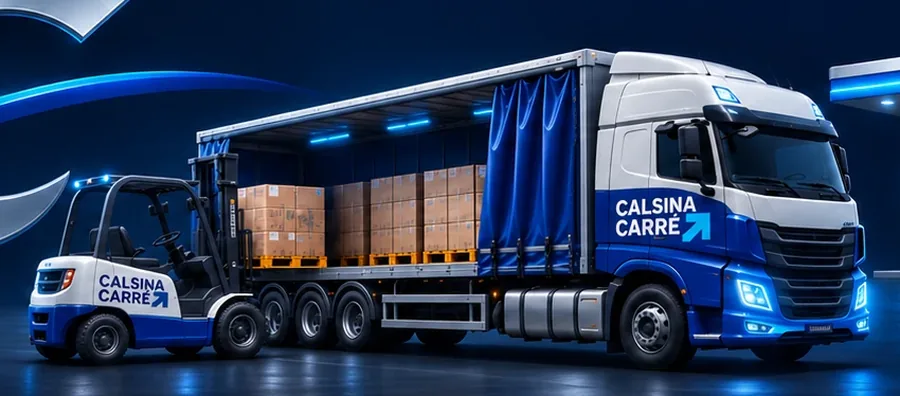
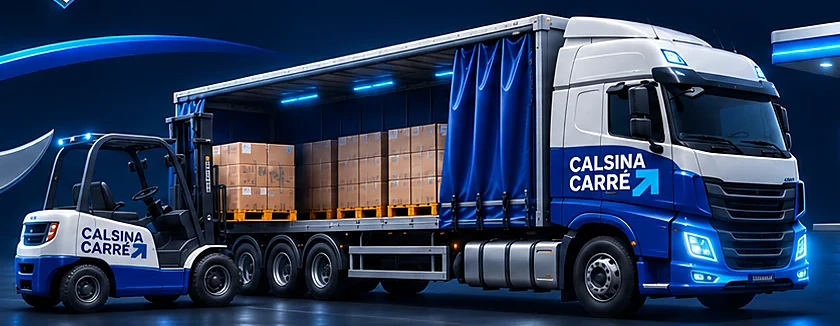
v29: imagen de la portada en el móvil mejor (camión y carretilla enteros, más nítidos), lo pidió Lorena
Claude-Session: https://claude.ai/code/session_011SdsLKzTmFSpwPz2orkjvZ

diff --git a/styles.css b/styles.css
@@ -182,7 +182,7 @@ main { outline: none; }
    azul de la web (#0B1E3C) y los bordes se difuminan con máscaras para que se funda con el degradado y los círculos del .hero.
    En el móvil, img/portada-movil.webp (carretilla y camión, sin las CC: lo pidió Lorena); en pantallas anchas, img/portada.webp entera. */
 .hero-arte {
-  width: calc(100% + 32px); max-width: 640px; aspect-ratio: 900 / 396; margin: 0 -16px;
+  width: calc(100% + 32px); max-width: 640px; aspect-ratio: 840 / 326; margin: 0 -16px;
   justify-self: center;
   background: url(img/portada-movil.webp) center / cover no-repeat;
   -webkit-mask-image: linear-gradient(90deg, transparent, #000 10%, #000 90%, transparent), linear-gradient(180deg, transparent, #000 12%, #000 78%, transparent);
@@ -711,7 +711,11 @@ main:focus, main:focus-visible { outline: none; }
 .urgente-movil:empty { display: none; }
 @media (max-width: 759px) {
   .hero { padding: 4px 16px 20px; }
-  .hero-arte { aspect-ratio: 900 / 300; max-width: 520px; }
+  /* v29 (lo pidió Lorena, 13/11/2026): la imagen del móvil tiene la misma proporción que su caja (840×326), así no se corta
+     el techo del camión ni las ruedas; los bordes se difuminan menos para que la carretilla no quede apagada */
+  .hero-arte { aspect-ratio: 840 / 326; max-width: 560px;
+    -webkit-mask-image: linear-gradient(90deg, transparent, #000 5%, #000 95%, transparent), linear-gradient(180deg, transparent, #000 6%, #000 90%, transparent);
+    mask-image: linear-gradient(90deg, transparent, #000 5%, #000 95%, transparent), linear-gradient(180deg, transparent, #000 6%, #000 90%, transparent); }
   .hero-eyebrow { font-size: .68rem; padding: 4px 10px; margin-bottom: 8px; }
   .hero-titulo { font-size: 1.45rem; }
   .hero-sub { margin-top: 8px; font-size: .92rem; }

diff --git a/admin.html b/admin.html
@@ -13,9 +13,9 @@
 <link rel="icon" href="img/favicon-32.png" sizes="32x32" type="image/png">
 <link rel="icon" href="img/favicon-64.png" sizes="64x64" type="image/png">
 <link rel="apple-touch-icon" href="img/apple-touch-icon.png">
-<link rel="stylesheet" href="fuentes.css?v=28">
-<link rel="stylesheet" href="styles.css?v=28">
-<link rel="stylesheet" href="admin.css?v=28">
+<link rel="stylesheet" href="fuentes.css?v=29">
+<link rel="stylesheet" href="styles.css?v=29">
+<link rel="stylesheet" href="admin.css?v=29">
 </head>
 <body class="panel">
 <header class="cabecera cab-panel">
@@ -157,8 +157,8 @@
 </section>
 
 <script src="lib/supabase.js"></script>
-<script src="comun.js?v=28"></script>
-<script src="render.js?v=28"></script>
-<script src="admin.js?v=28"></script>
+<script src="comun.js?v=29"></script>
+<script src="render.js?v=29"></script>
+<script src="admin.js?v=29"></script>
 </body>
 </html>

diff --git a/index.html b/index.html
@@ -25,8 +25,8 @@
 <meta property="og:type" content="website">
 <meta name="twitter:card" content="summary_large_image">
 <link rel="preconnect" href="https://ytxpubqyhnohhugpukdm.supabase.co" crossorigin>
-<link rel="stylesheet" href="fuentes.css?v=28">
-<link rel="stylesheet" href="styles.css?v=28">
+<link rel="stylesheet" href="fuentes.css?v=29">
+<link rel="stylesheet" href="styles.css?v=29">
 </head>
 <body class="web">
 <a class="saltar" href="#contenido">Ir al contenido</a>
@@ -396,9 +396,9 @@
 </footer>
 
 <script src="lib/supabase.js"></script>
-<script src="comun.js?v=28"></script>
-<script src="render.js?v=28"></script>
-<script src="app.js?v=28"></script>
-<script src="visor.js?v=28"></script>
+<script src="comun.js?v=29"></script>
+<script src="render.js?v=29"></script>
+<script src="app.js?v=29"></script>
+<script src="visor.js?v=29"></script>
 </body>
 </html>

diff --git a/cartel.html b/cartel.html
@@ -8,7 +8,7 @@
 <meta name="robots" content="noindex">
 <title>Cartel para el tablón · Comité Calsina Carré</title>
 <link rel="icon" href="img/favicon-32.png" sizes="32x32" type="image/png">
-<link rel="stylesheet" href="fuentes.css?v=28">
+<link rel="stylesheet" href="fuentes.css?v=29">
 <style>
   :root { --noche: #0B1E3C; --azul: #0E5FAE; --cian: #00C6FF; --hielo: #E6EEF7; --tinta: #0B1E3C; --suave: #4d5b6c; }
   * { box-sizing: border-box; }
@@ -88,6 +88,6 @@
   </div>
 </div>
 <script src="lib/qr.js"></script>
-<script src="cartel.js?v=28"></script>
+<script src="cartel.js?v=29"></script>
 </body>
 </html>

diff --git a/comun.js b/comun.js
@@ -6,7 +6,7 @@
 window.SUPABASE_URL = "https://ytxpubqyhnohhugpukdm.supabase.co";
 window.SUPABASE_KEY = "sb_publishable_tmkeed90aj4Fv00UoTTy7Q_qBPUAaCj";
 window.sb = supabase.createClient(window.SUPABASE_URL, window.SUPABASE_KEY);
-window.VERSION_WEB = "28"; // cambiar junto con ?v= en los HTML y VERSION en sw.js
+window.VERSION_WEB = "29"; // cambiar junto con ?v= en los HTML y VERSION en sw.js
 // Dirección de la web: sale de donde esté publicada (no hay que tocarla si cambia el dominio)
 window.WEB_URL = new URL("./", location.href).href;
 

diff --git a/guia.html b/guia.html
@@ -9,8 +9,8 @@
 <title>Guía del panel · Comité Calsina Carré</title>
 <meta name="theme-color" content="#0B1E3C">
 <link rel="icon" href="img/favicon-32.png" sizes="32x32" type="image/png">
-<link rel="stylesheet" href="fuentes.css?v=28">
-<link rel="stylesheet" href="styles.css?v=28">
+<link rel="stylesheet" href="fuentes.css?v=29">
+<link rel="stylesheet" href="styles.css?v=29">
 <style>
   body { padding-bottom: 40px; }
   .guia { max-width: 820px; margin: 0 auto; padding: 8px 16px 40px; }

diff --git a/sw.js b/sw.js
@@ -1,6 +1,6 @@
 // Permite instalar la web como app y abrirla sin conexión.
 // Cambiar VERSION junto con ?v= en los HTML y VERSION_WEB en comun.js.
-const VERSION = "28";
+const VERSION = "29";
 const CACHE = "comite-v" + VERSION;
 const ARCHIVOS = [
   "./", "index.html", "admin.html", "guia.html", "404.html",

diff --git a/README.md b/README.md
@@ -99,6 +99,7 @@ NODE_PATH=$(npm root -g) node pruebas/sw.cjs
 - **v17**: calendario con botón «Mes / Año entero» (12 meses en pequeño; al tocar un mes se abre). Festivos laborales oficiales de Cataluña de 2026 y 2027 sacados del BOE (BOE-A-2025-21667 y BOE-A-2026-21254); los de España con la bandera española. Reuniones con la empresa en azul y las del comité en verde (petición n.º 6 del padre). También: panel del padre más fácil (lo pidió Lorena): sus peticiones en dos bloques, «Lo tuyo» (Te toca a ti / Esperando) arriba y «Confirmado por Lorena» debajo; preguntas de Claude con botones y «Otra cosa»; «Que lo siga Lorena», «Quitar de mi lista» y «No me gusta, quitarlo»; menos texto, buscador, negritas y fotos grandes en el chat. En la portada, el nombre «Comité de empresa · (nombre de la empresa)» se ve mejor.
 - **v23**: el nombre del camión de la portada se quita otra vez porque se veía borroso (lo pidió Lorena el 9/11/2026; «Calsina Carré» sigue en la cabecera, el título y los textos); «Avisar a Lorena» del panel dice «solo emergencias» y pregunta antes de avisar (fallo en la web o cambio que haga falta ya). Revisión a fondo (tanda 3, 10/11/2026): **web** — carga primero la copia guardada y avisa si la red va lenta (12 s) o no hay conexión, «Actualizado el…» en avisos y actas, «Escribir al comité (email)» en el pie, botones de 44 px, la portada ya no salta al cargar, pestañas en dos filas en el PC, enlaces viejos avisan de que ya no existe, textos legales y del buzón nuevos, el service worker no se queda colgado, los avisos al móvil ya no piden activarse cada vez (petición n.º 10); **panel** — no publica dos veces con un doble toque, nunca dice «hecho» sin guardar (avisa si la sesión ha caducado y conserva lo escrito), pregunta antes de salir sin guardar, borrador guardado solo, «Deshacer», plantillas de aviso, convocatoria y acta, «Ver cómo quedará en la web» en el móvil, fotos sin GPS, «Borrar para siempre» en la Papelera, guía al día.
 - **v24**: mejoras de aspecto que eligió Lorena el 10/11/2026 (auditoría visual): en el móvil, el bloque azul de la portada es más bajo y lo urgente (aviso urgente o «Destacado hoy», con su señal y las rayas) sale justo debajo de «Buzón anónimo», antes de los accesos (en el PC sigue a la derecha); en el editor de avisos, «Urgente» y «Destacar en la portada el día» van juntos en el recuadro «¿Cómo de importante es?»; en las listas del panel, título como en la web, explicación plegada con «Cómo funciona» y señal pequeña en cada aviso; esquinas en 3 medidas, tarjetas de reunión con el texto a todo el ancho y etiquetas más suaves en modo oscuro. El Inicio del panel no cambia.
+- **v29**: la imagen de la portada en el móvil se ve mejor (lo pidió Lorena): el camión y la carretilla salen enteros, con el techo y las ruedas, más nítidos y con los bordes menos apagados.
 - **v28**: imagen de portada nueva que mandó Lorena (con el logo CC, y el nombre con la flecha en el camión y la carretilla), en el PC entera y en el móvil recortada al camión y la carretilla. Se quita el texto de la v27, que ya va en la imagen.
 - **v27**: petición n.º 11 del padre (con el sí de Lorena): «CALSINA CARRÉ» en la lona del camión y en la carretilla de la portada, sin «the logical way» ni flecha. Va escrito encima del dibujo (no dentro de la imagen), así que se ve nítido en el móvil y en el PC.
 - **v26**: letra más pequeña que la normal (lo pidió Lorena el 10/11/2026, igual que en CCOO). El botón «Aa» de arriba ahora tiene cuatro tamaños: normal, grande, muy grande y pequeña; se recuerda en el móvil. Probado a 320 px y en modo oscuro, en la web y en el panel.

diff --git a/CLAUDE.md b/CLAUDE.md
@@ -9,8 +9,8 @@ La gestiona desde el panel el padre de Lorena (usuario GitHub `mariancracana77-S
 
 - Web: https://mariancracana77-ssccoo.github.io/Comite-calsina-carre/ (GitHub Pages desde `main`, raíz)
 - Panel: `admin.html` (email + contraseña de Supabase)
-- Versión actual: **28**
-- **Nombre** (lo pidieron Lorena y su padre el 9/11/2026, al volver a la cuenta de siempre): se ve «Calsina Carré» en títulos, cabecera, pie, portada (también en el camión), manifest y cartel, como en la v20. Desde la v23 el camión de la portada va **sin** nombre (se veía borroso; lo pidió Lorena el 9/11/2026): imágenes de antes de la petición n.º 7. No volver a ponerle texto **dentro** de la imagen. **v27 (petición n.º 11 del padre, Lorena: «Que lo publique», 13/11/2026)**: «CALSINA CARRÉ» vuelve a la lona y a la carretilla, pero como texto SVG encima del dibujo (`.rotulo`, `.rotulo-movil`/`.rotulo-pc` en `index.html`, con el viewBox de cada imagen y `slice` como el `cover` del fondo), sin lema ni flecha: así se ve nítido. **v28 (lo mandó Lorena el 13/11/2026: «usa esto, le añadí el logo»)**: imagen de portada nueva (original en el vault, «Comité/Imágenes/portada-nueva-logo-CC-2026-11-13.webp», 1671×941) con las CC y el nombre con la flecha ya dibujados en el camión y la carretilla; `img/portada.webp` = la imagen entera a 1600×900; `img/portada-movil.webp` = recorte de x 600–1450, y 318–692, a 900×396 (sin las CC). Se quitó el texto SVG de la v27 para que el nombre no salga dos veces. La v21 sin nombres quedó solo en local (rama `limpio`).
+- Versión actual: **29**
+- **Nombre** (lo pidieron Lorena y su padre el 9/11/2026, al volver a la cuenta de siempre): se ve «Calsina Carré» en títulos, cabecera, pie, portada (también en el camión), manifest y cartel, como en la v20. Desde la v23 el camión de la portada va **sin** nombre (se veía borroso; lo pidió Lorena el 9/11/2026): imágenes de antes de la petición n.º 7. No volver a ponerle texto **dentro** de la imagen. **v27 (petición n.º 11 del padre, Lorena: «Que lo publique», 13/11/2026)**: «CALSINA CARRÉ» vuelve a la lona y a la carretilla, pero como texto SVG encima del dibujo (`.rotulo`, `.rotulo-movil`/`.rotulo-pc` en `index.html`, con el viewBox de cada imagen y `slice` como el `cover` del fondo), sin lema ni flecha: así se ve nítido. **v28 (lo mandó Lorena el 13/11/2026: «usa esto, le añadí el logo»)**: imagen de portada nueva (original en el vault, «Comité/Imágenes/portada-nueva-logo-CC-2026-11-13.webp», 1671×941) con las CC y el nombre con la flecha ya dibujados en el camión y la carretilla; `img/portada.webp` = la imagen entera a 1600×900; `img/portada-movil.webp` = recorte de x 612–1452, y 350–676, a su tamaño (840×326, sin ampliar, con un poco de nitidez), y la caja del móvil con la misma proporción 840/326 y bordes menos difuminados (v29, lo pidió Lorena: así no se cortan el techo ni las ruedas). Se quitó el texto SVG de la v27 para que el nombre no salga dos veces. La v21 sin nombres quedó solo en local (rama `limpio`).
 
 ## Reglas (las mismas que en CCOO)
 - No publicar en `main` sin que Lorena lo confirme (salvo lo que pide el padre con «Me gusta, adelante»: ver la decisión de Lorena del 6/11/2026 en «Pedir un cambio a Claude»). Trabajar en la rama indicada.
